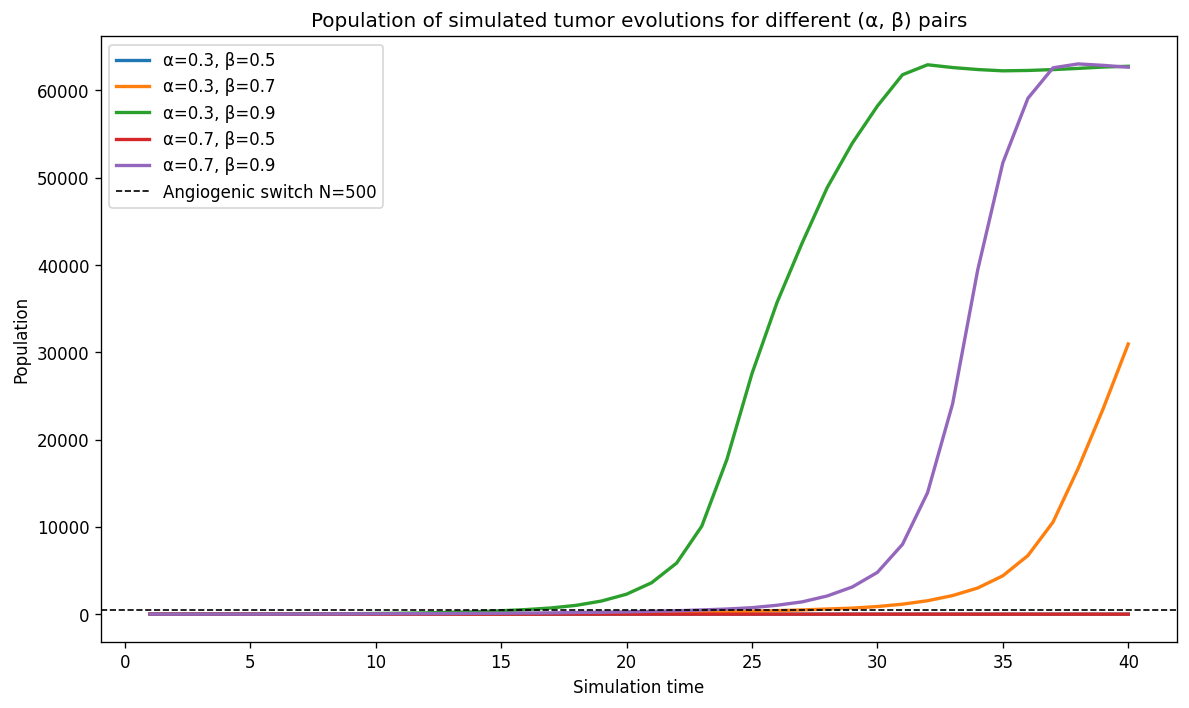
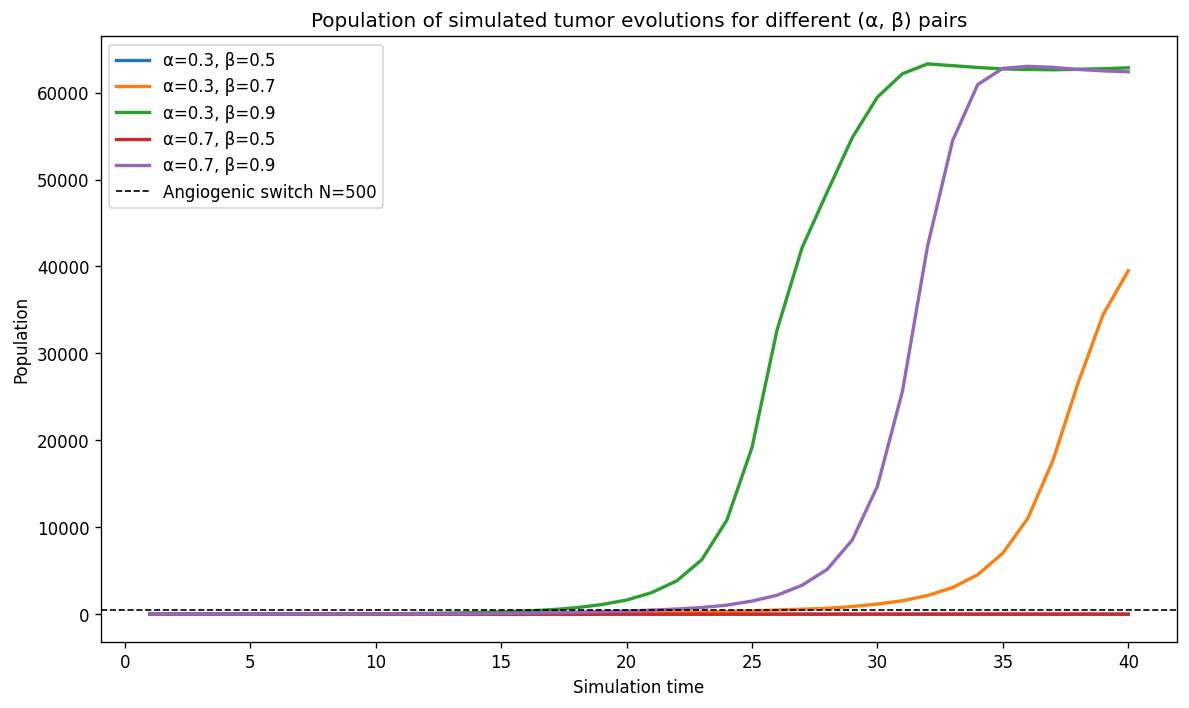
Detail correction in README.md file
Detail correction of the README.md file, added the results for the parameter sweep.

diff --git a/README.md b/README.md
@@ -30,6 +30,7 @@ This repository collects computational models developed to simulate the growth o
 6. [Installation & Usage](#installation--usage)
 7. [Example Output](#example-output)
 8. [References](#references)
+9. [Citation](#citation)
 
 ---
 
@@ -83,8 +84,6 @@ Each lattice site contains either:
 
 Cells interact with their **18 nearest neighbors** (first and second order neighbors).
 
----
-
 ### 2. Oxygen Field Dynamics
 
 The oxygen concentration field
@@ -104,8 +103,6 @@ where
 * $D_O$ : oxygen diffusion coefficient
 * $Q(O)$ : oxygen consumption by tumor cells
 
----
-
 ### 3. Cellular Oxygen Consumption
 
 Cells consume oxygen following **Michaelis–Menten kinetics**, a standard model for metabolic uptake:
@@ -121,8 +118,6 @@ This form captures the biological fact that oxygen consumption **saturates at hi
 
 Only **living cells consume oxygen**, while necrotic cells do not.
 
----
-
 ### 4. Hypoxia Ratio
 
 A useful quantity derived from the oxygen concentration is the **hypoxia ratio**
@@ -137,8 +132,6 @@ Properties:
 | Low oxygen   | $C \approx 1$ |
 
 This quantity directly modulates **cell division and death probabilities**.
-
----
 
 ### 5. Cell Fate Probabilities
 
@@ -160,8 +153,6 @@ where
 
 Hypoxic regions therefore experience higher mortality.
 
----
-
 #### Division probability
 
 $$b = \beta(1 + \gamma - C)$$
@@ -170,8 +161,6 @@ where
 
 * $\beta$ controls the proliferation rate
 * $\gamma$ is the **phenotype parameter**
-
----
 
 ### 6. Cell Phenotypes
 
@@ -187,8 +176,6 @@ Characteristics:
 * Higher turnover
 * Compact tumor morphology
 
----
-
 #### Non-condensing cells
 
 $$\gamma < 0$$
@@ -199,8 +186,6 @@ Characteristics:
 * More diffuse tumor structure
 
 This mechanism models **evolutionary trade-offs in tumor populations**.
-
----
 
 ### 7. Angiogenic Switch
 
@@ -224,8 +209,6 @@ $$O \leftarrow O + \Delta \phi$$
 
 This represents the **angiogenic switch**, a hallmark of cancer progression.
 
----
-
 ### 8. Hypoxia and Necrosis
 
 Cells respond to oxygen depletion through two thresholds:
@@ -238,8 +221,6 @@ Effects:
 
 * reduced division
 * secretion of angiogenic factors
-
----
 
 #### Necrotic threshold
 
@@ -254,8 +235,6 @@ Necrotic cells:
 
 This produces a **necrotic tumor core**.
 
----
-
 ### 9. Metastasis Mechanism
 
 Metastasis is modeled as a **mechanical detachment process**.
@@ -269,8 +248,6 @@ When a cell attempts division into an occupied site:
 This event is recorded as a **metastatic event**.
 
 The outward bias models **mechanical pressure pushing cells toward the tumor surface**.
-
----
 
 ### 10. Division-Death Ratio
 
@@ -464,18 +441,23 @@ Along with a plot for the general description of important parameters of the tum
 * Mean hypoxia ratio
 * 3D tumor morphology
 
-![Tumor results](example-outputs/tumor_results.png)
+![Tumor results](example-outputs\tumor_results.png)
 
 A second plot that shows:
 * Oxygen concentration heat map
 * Pro-angiogenic factor heat map
 
-![Oxygen field](example-outputs/tumor_diffusion.png)
+![Oxygen field](example-outputs\tumor_diffusion.png)
 
-The results of the parameter sweep executed through parallel computation are still under development.
+The results of the parameter sweep executed through parallel computation gives the following graph:
+
+![Parameter sweep](example-outputs/tumor_comparison.png)
+
 
 ---
+
 ## References
+
 1. Terradellas Igual, A. (2019). *Fractal dynamics and cancer growth.* (Master Thesis, Universitat Pompeu Fabra). Not published.
 2. Ojwang', A.M.E., Bazargan, S., Johnson, J.O., Pilon-Thomas, S. & Rejniak, K.A. (2024) *Histology-guided mathematical model of tumor oxygenation.* bioRxiv [Preprint]. doi: 10.1101/2024.03.05.583363.
 
